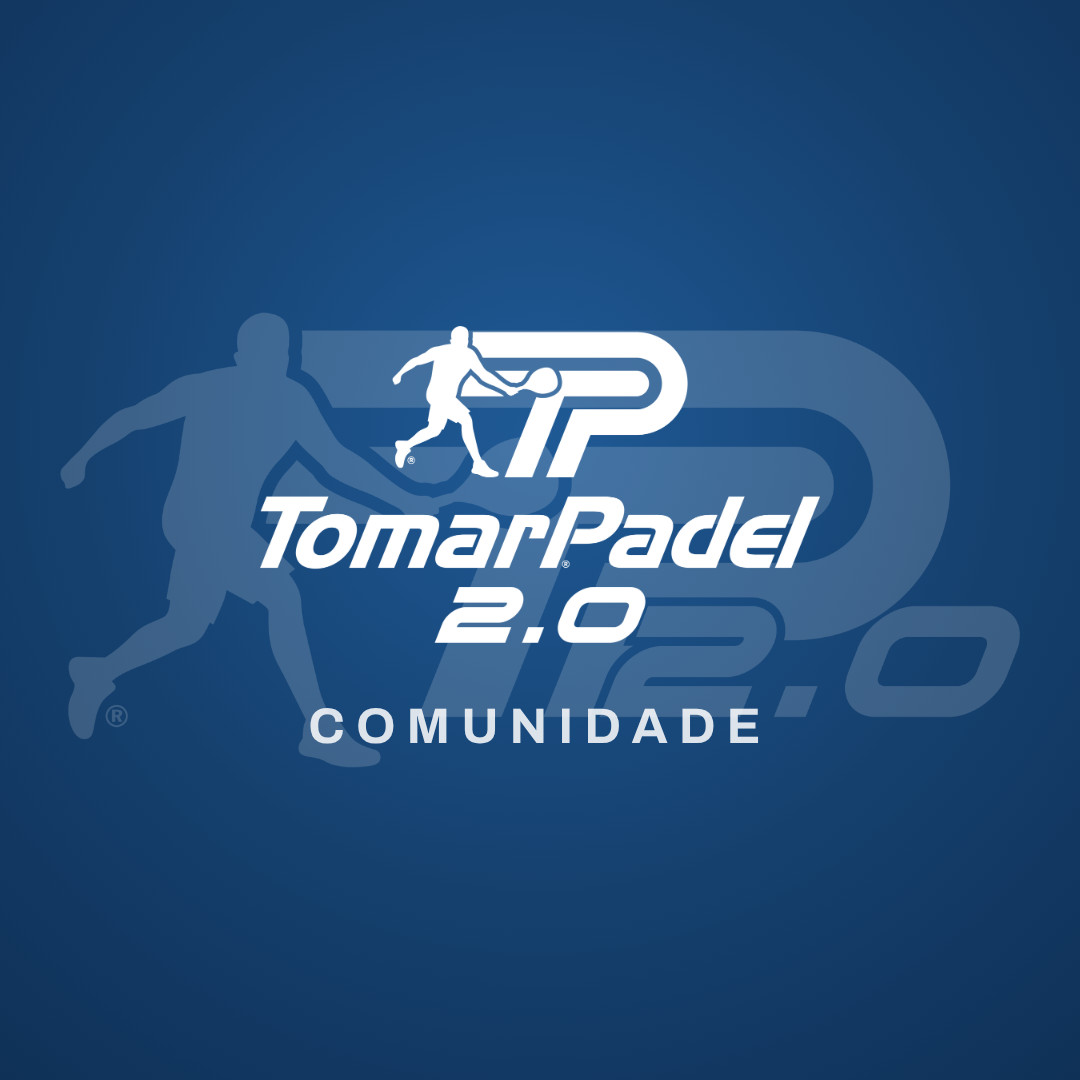
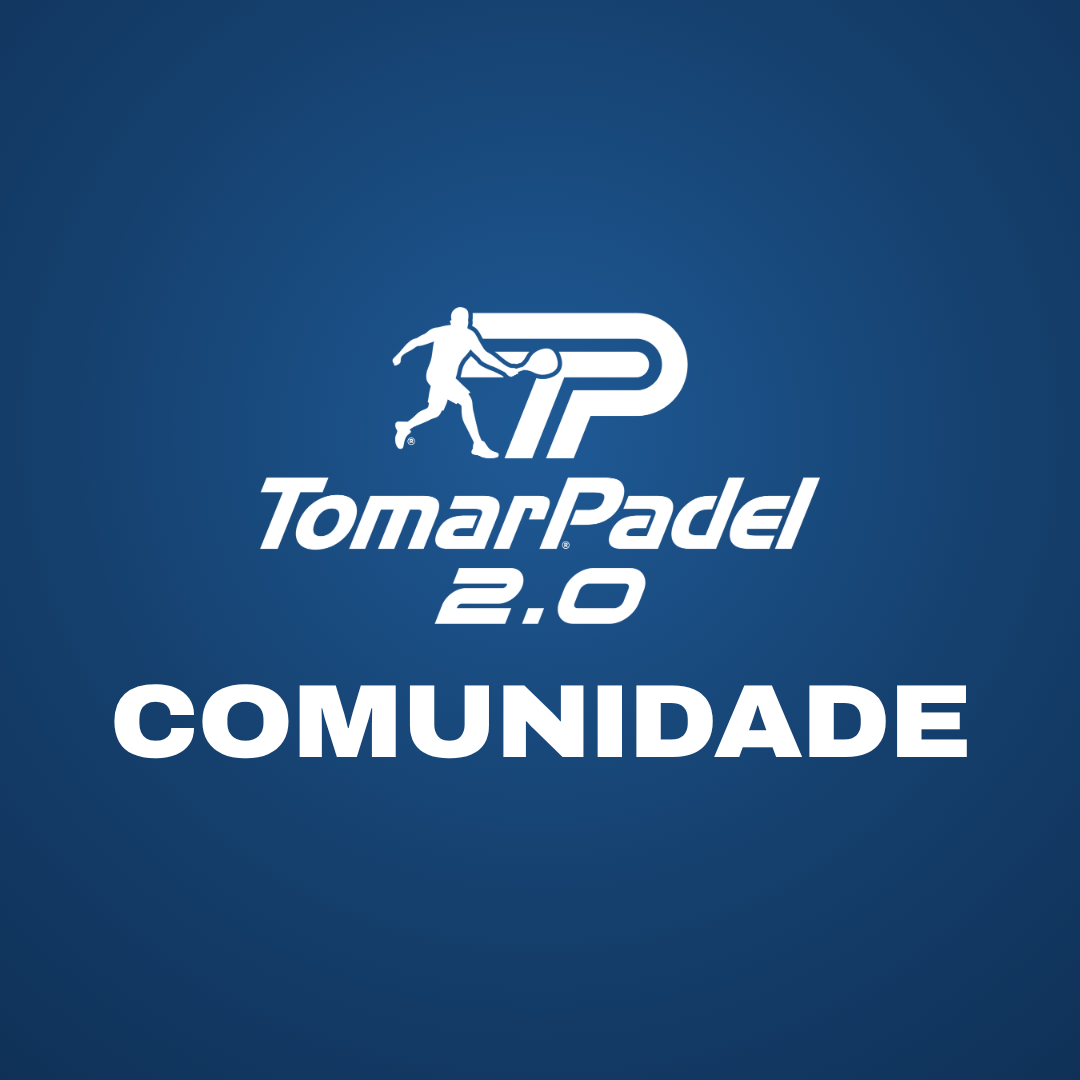
WhatsApp comunidade maior
Claude-Session: https://claude.ai/code/session_01YAkTQk1jS2UJe1ngAj8tnN

Changed region(s): [[0.0611, 0.275, 0.9472, 0.7333]]

diff --git a/src/whatsapp-gen.py b/src/whatsapp-gen.py
@@ -29,7 +29,7 @@ def icon_page(k,label,size=96,bg=NAVY,sub=None):
     if sub: s+=f'<div class="sub" style="font-size:36px;margin-top:18px">{sub}</div>'
     return page(bg,s)
 P={}
-P['01-comunidade']=page(NAVY,f'<img src="{A}logos/branco_vertical.png" style="width:560px"><div class="sub" style="margin-top:56px;font-size:50px;letter-spacing:.22em">Comunidade</div>')
+P['01-comunidade']=page(NAVY,f'<img src="{A}logos/branco_vertical.png" style="width:560px"><div class="lab" style="margin-top:50px;font-size:104px">Comunidade</div>')
 P['02-gerencia']=icon_page('briefcase','Gerência',bg=DARK)
 P['03-staff']=icon_page('badge','Staff',size=120,bg=DARK)
 P['04-ricardo-santos']=page(NAVY,f'<div class="lab" style="font-size:120px">Ricardo<br>Santos</div><div class="sub" style="font-size:40px;margin-top:20px;letter-spacing:.08em">Treinador &amp; Relações Públicas</div>')
